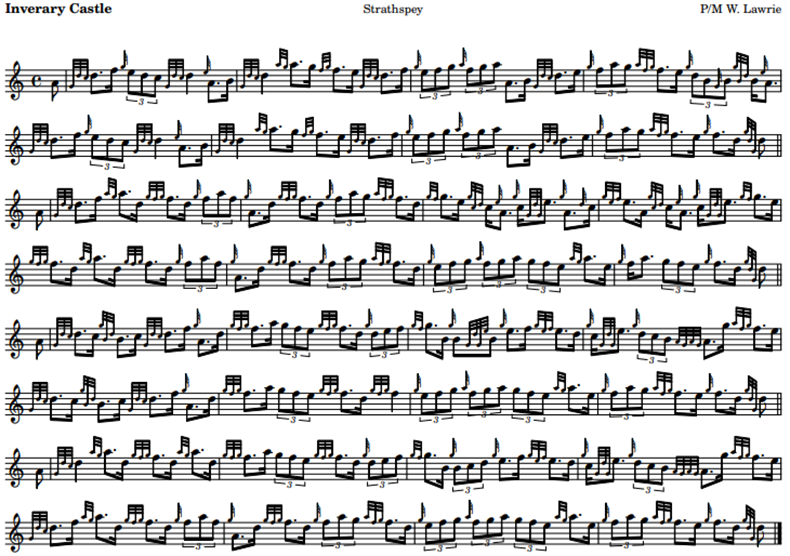
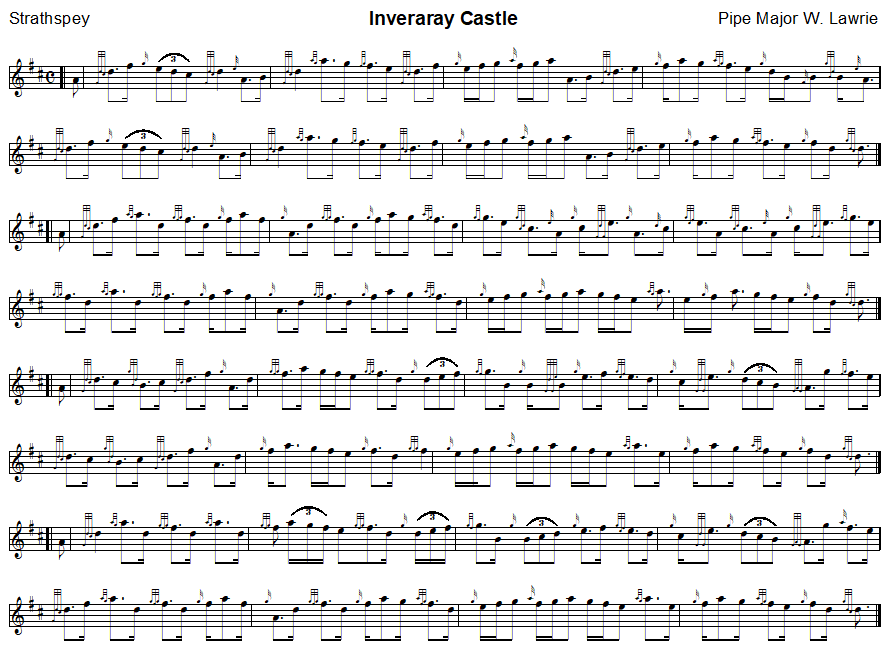
Add files via upload

diff --git a/inveraray.html b/inveraray.html
@@ -22,16 +22,16 @@ w\:* {behavior:url(#default#VML);}
  <o:DocumentProperties>
   <o:Author>Graeme Bolton</o:Author>
   <o:LastAuthor>Graeme Bolton</o:LastAuthor>
-  <o:Revision>49</o:Revision>
-  <o:TotalTime>294</o:TotalTime>
+  <o:Revision>51</o:Revision>
+  <o:TotalTime>296</o:TotalTime>
   <o:Created>2023-12-11T21:59:00Z</o:Created>
-  <o:LastSaved>2024-03-22T07:03:00Z</o:LastSaved>
+  <o:LastSaved>2024-06-02T02:15:00Z</o:LastSaved>
   <o:Pages>1</o:Pages>
-  <o:Words>103</o:Words>
-  <o:Characters>588</o:Characters>
-  <o:Lines>4</o:Lines>
+  <o:Words>68</o:Words>
+  <o:Characters>392</o:Characters>
+  <o:Lines>3</o:Lines>
   <o:Paragraphs>1</o:Paragraphs>
-  <o:CharactersWithSpaces>690</o:CharactersWithSpaces>
+  <o:CharactersWithSpaces>459</o:CharactersWithSpaces>
   <o:Version>16.00</o:Version>
  </o:DocumentProperties>
  <o:OfficeDocumentSettings>
@@ -1148,7 +1148,7 @@ none;text-underline:none'><o:p></o:p></span></b></span></p>
  id="_x0000_t202" coordsize="21600,21600" o:spt="202" path="m,l,21600r21600,l21600,xe">
  <v:stroke joinstyle="miter"/>
  <v:path gradientshapeok="t" o:connecttype="rect"/>
-</v:shapetype><v:shape id="Text_x0020_Box_x0020_1526593877" o:spid="_x0000_s1027"
+</v:shapetype><v:shape id="Text_x0020_Box_x0020_2095115478" o:spid="_x0000_s1027"
  type="#_x0000_t202" style='position:absolute;margin-left:36.65pt;margin-top:8.75pt;
  width:510.85pt;height:29.95pt;z-index:251659776;visibility:visible;
  mso-wrap-style:square;mso-width-percent:0;mso-height-percent:0;
@@ -1197,8 +1197,8 @@ AAAA
     <td><![endif]>
     <div>
     <p class=MsoNormal><span style='font-size:14.0pt;line-height:105%'>1<sup>st</sup>
-    Sound file is normal speed on Bagpipes, 2<sup>nd</sup> Sound file is slow on
-    Practice Chanter<o:p></o:p></span></p>
+    Sound file is normal speed on Bagpipes, 2<sup>nd</sup> Sound file is slow
+    on Practice Chanter<o:p></o:p></span></p>
     </div>
     <![if !mso]></td>
    </tr>
@@ -1214,7 +1214,7 @@ AAAA
   <td></td>
   <td><img width=687 height=46 src="inveraray_files/image002.png"
   alt="Text Box: 1st Sound file is normal speed on Bagpipes, 2nd Sound file is slow on Practice Chanter"
-  v:shapes="Text_x0020_Box_x0020_1526593877"></td>
+  v:shapes="Text_x0020_Box_x0020_2095115478"></td>
  </tr>
 </table>
 
@@ -1279,8 +1279,8 @@ mso-effects-shadow-pctsx:100.0%;mso-effects-shadow-pctsy:100.0%;mso-effects-shad
  <v:path o:extrusionok="f" gradientshapeok="t" o:connecttype="rect"/>
  <o:lock v:ext="edit" aspectratio="t"/>
 </v:shapetype><v:shape id="Picture_x0020_1" o:spid="_x0000_s1026" type="#_x0000_t75"
- style='position:absolute;margin-left:12.65pt;margin-top:75.4pt;width:592.25pt;
- height:417.05pt;z-index:-251655680;visibility:visible;mso-wrap-style:square;
+ style='position:absolute;margin-left:6.75pt;margin-top:75.75pt;width:698.3pt;
+ height:605.3pt;z-index:-251658754;visibility:visible;mso-wrap-style:square;
  mso-width-percent:0;mso-height-percent:0;mso-wrap-distance-left:9pt;
  mso-wrap-distance-top:0;mso-wrap-distance-right:9pt;
  mso-wrap-distance-bottom:0;mso-position-horizontal:absolute;
@@ -1289,8 +1289,8 @@ mso-effects-shadow-pctsx:100.0%;mso-effects-shadow-pctsy:100.0%;mso-effects-shad
  mso-width-relative:page;mso-height-relative:page'>
  <v:imagedata src="inveraray_files/image004.png" o:title=""/>
 </v:shape><![endif]--><![if !vml]><span style='mso-ignore:vglayout;position:
-absolute;z-index:-1895822848;margin-left:17px;margin-top:101px;width:790px;
-height:556px'><img width=790 height=556 src="inveraray_files/image006.png"
+absolute;z-index:-1895825922;margin-left:9px;margin-top:102px;width:931px;
+height:807px'><img width=931 height=807 src="inveraray_files/image004.png"
 v:shapes="Picture_x0020_1"></span><![endif]><span class=MsoHyperlink><b
 style='mso-bidi-font-weight:normal'><span style='font-size:16.0pt;font-family:
 "Bell MT",serif;color:red;mso-style-textoutline-type:none;mso-style-textoutline-outlinestyle-dpiwidth:
